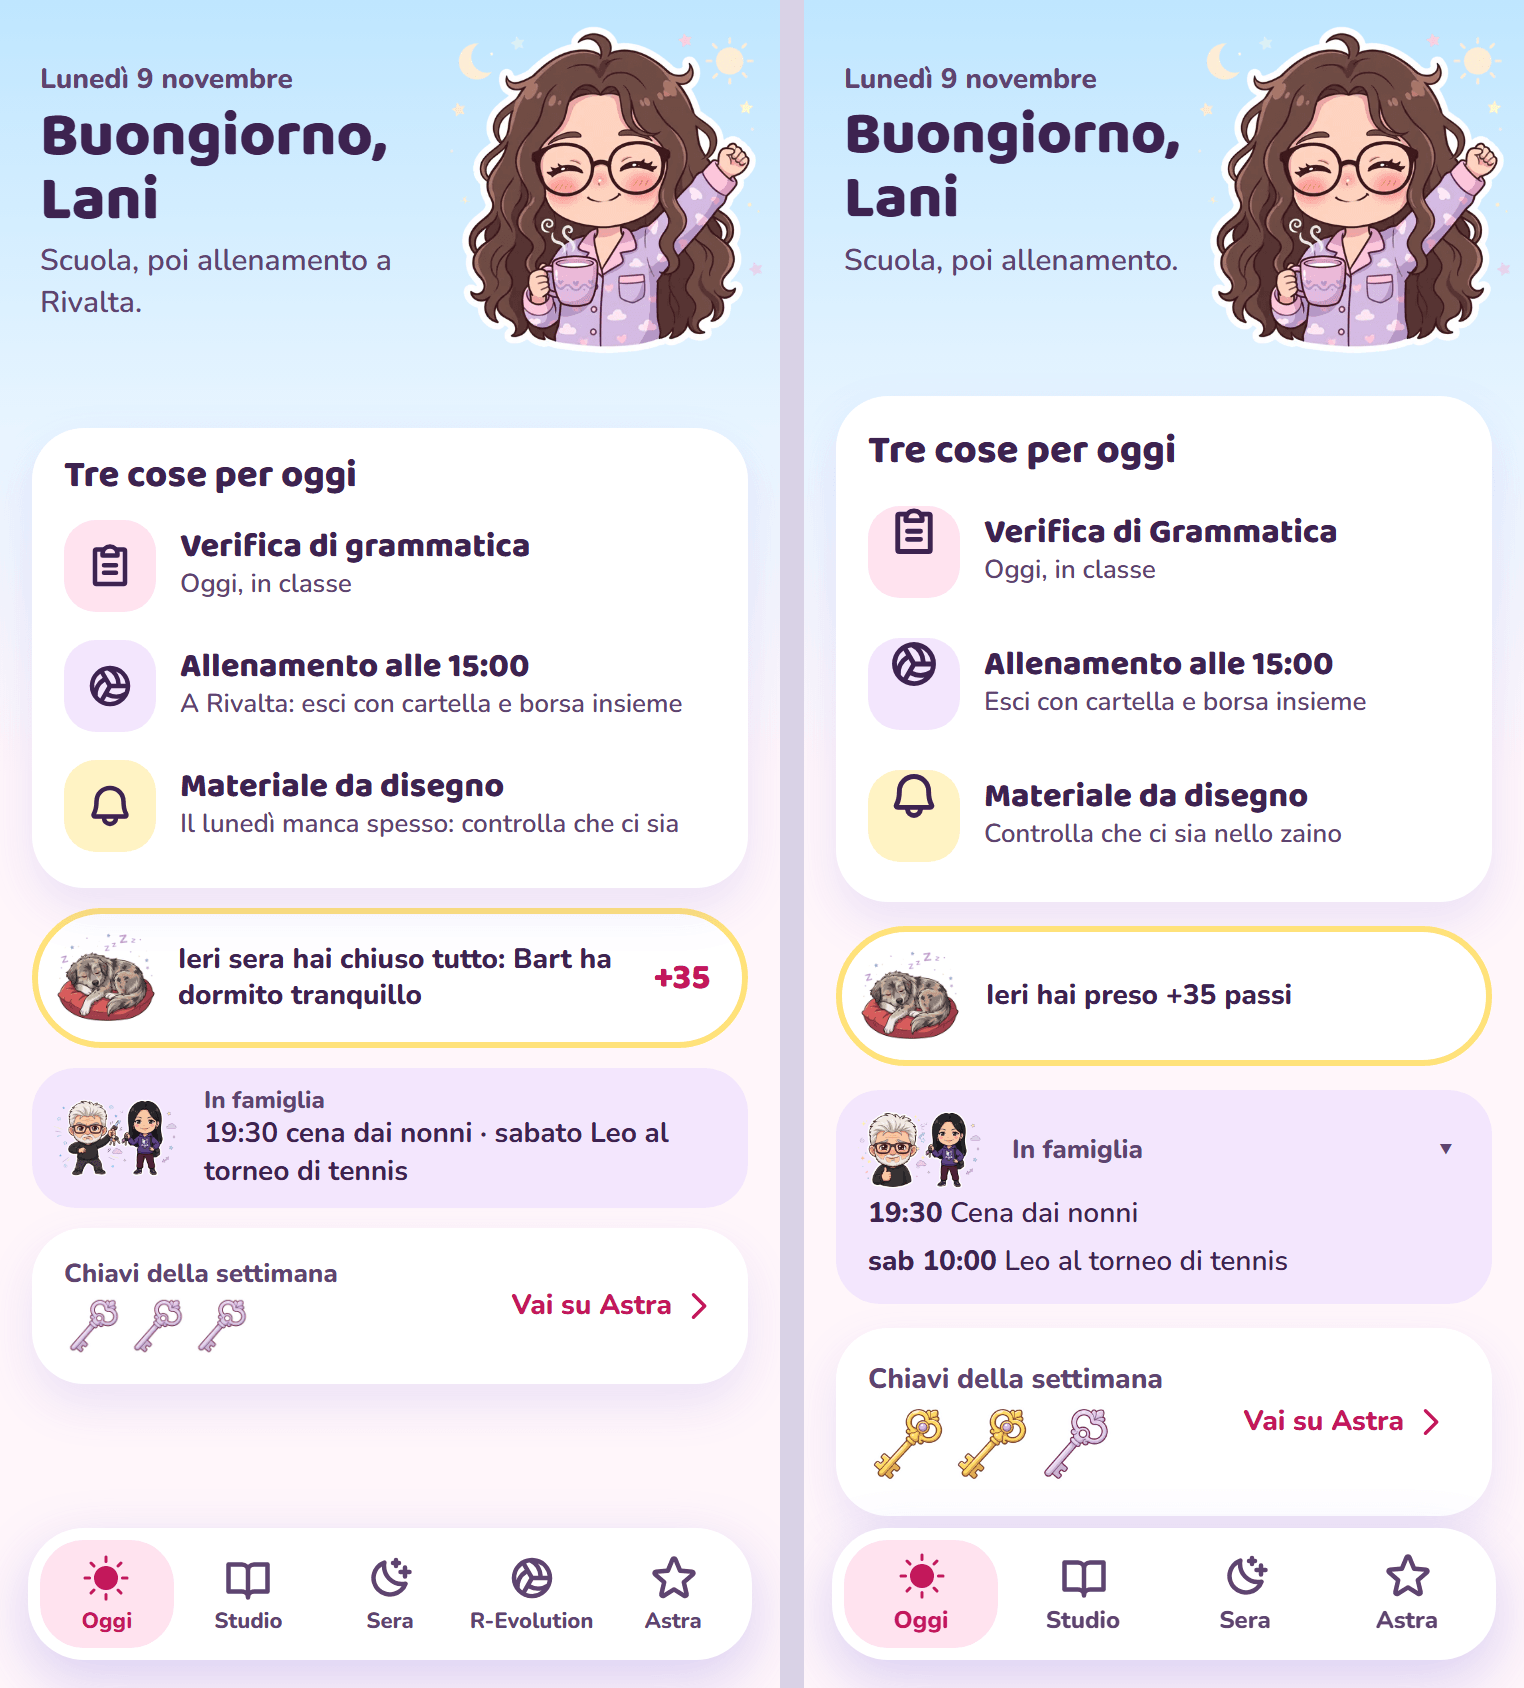
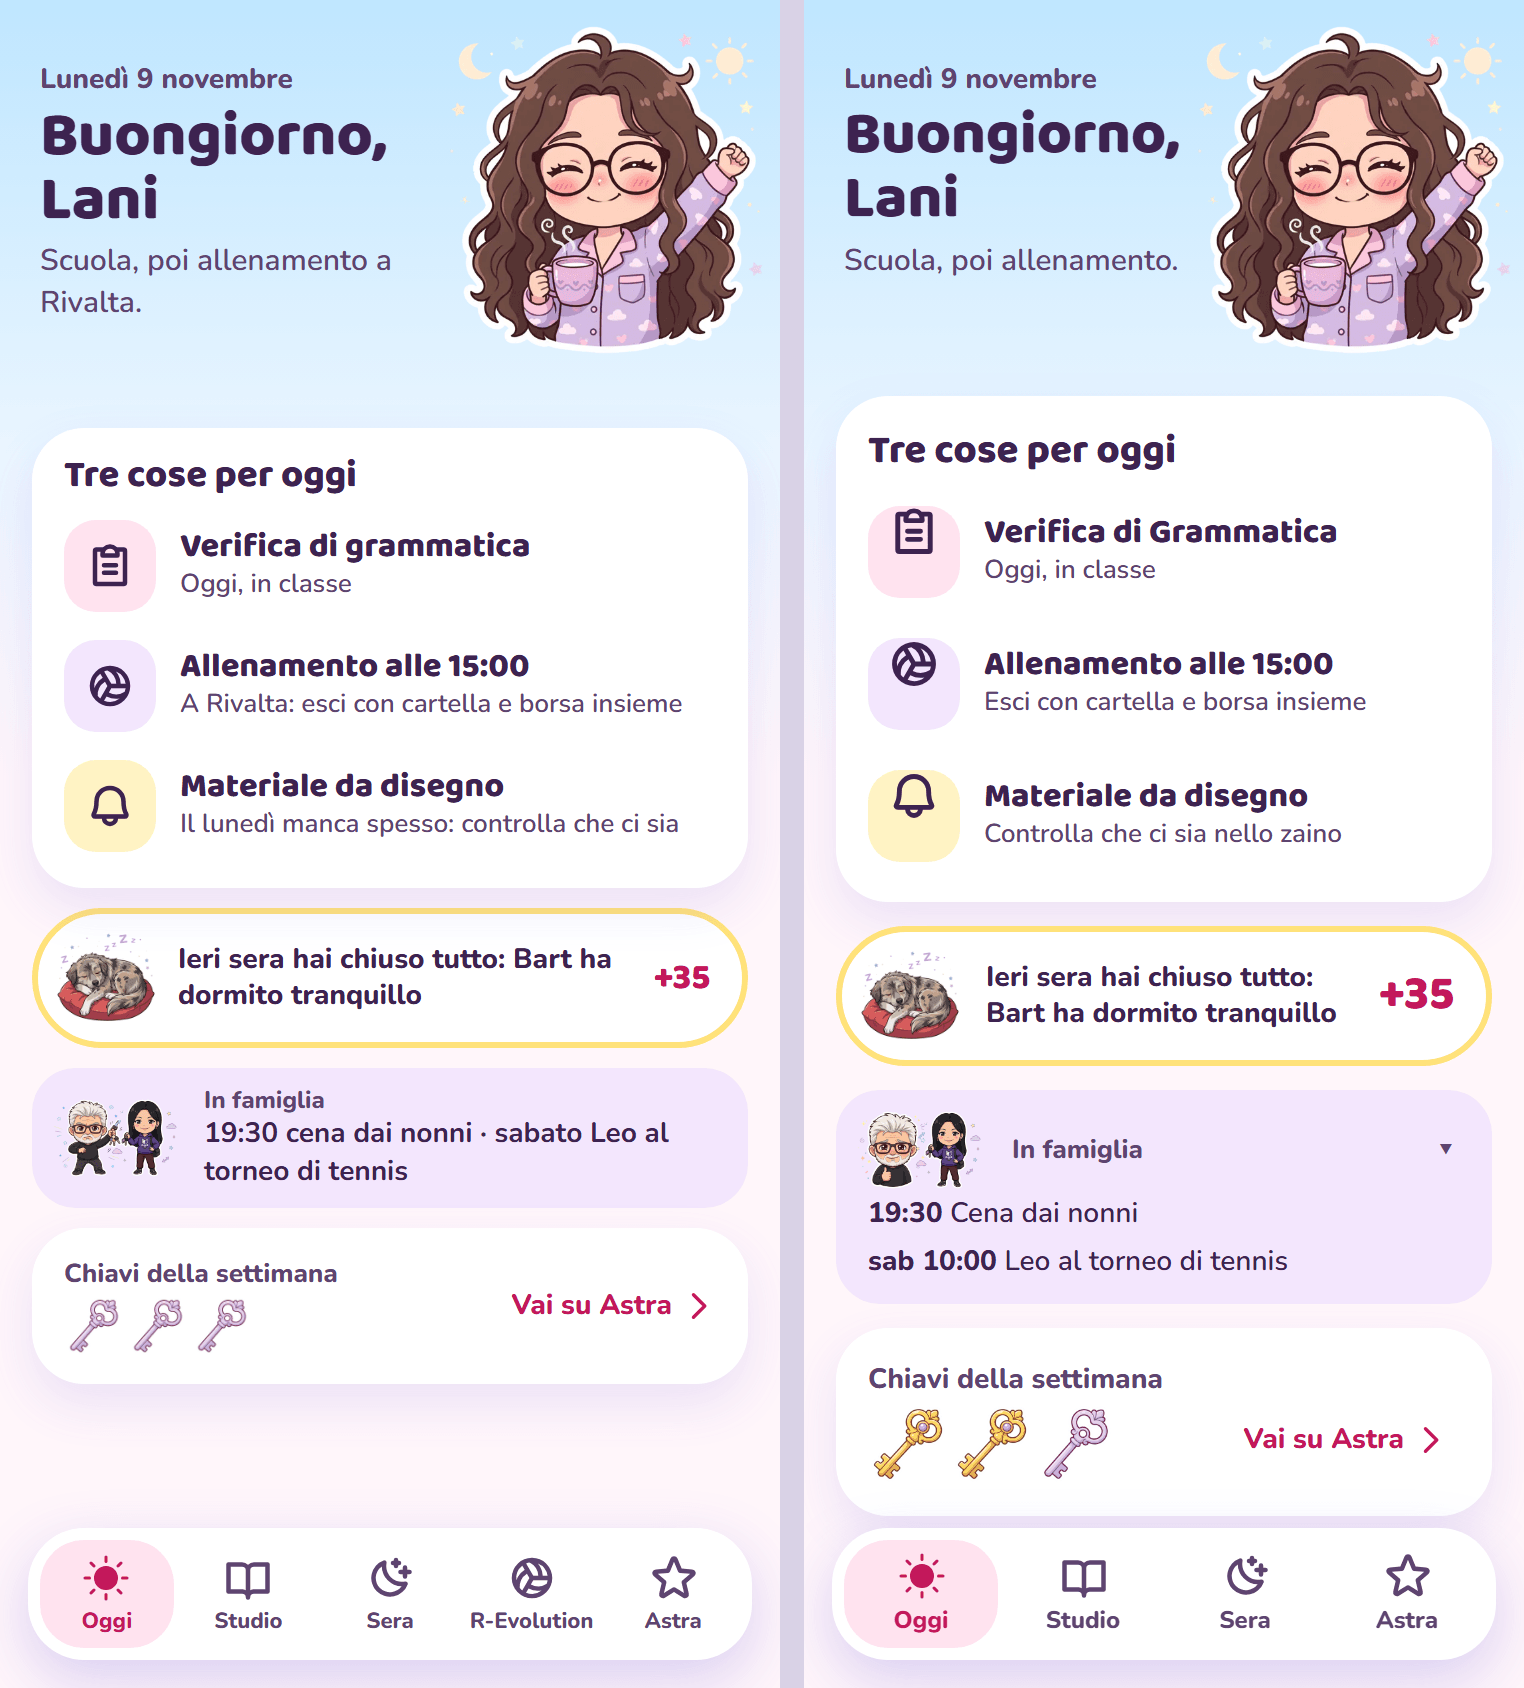
Revisione UI 6 (Oggi): pillola di ieri come la bozza
- 'Ieri sera hai chiuso tutto: Bart ha dormito tranquillo' se la serata
  di ieri è chiusa (altrimenti 'Passi di ieri'), con il numero grande a
  destra
- righe di 'In famiglia' a 16 px dal bordo; 'Vai su Astra' allineato
  alla riga delle chiavi

Changed region(s): [[0.6476, 0.5545, 0.8635, 0.6161], [0.8018, 0.8318, 0.956, 0.8626], [0.8944, 0.5545, 0.956, 0.6161]]

diff --git a/src/Oggi.tsx b/src/Oggi.tsx
@@ -51,6 +51,7 @@ function Mattina({ impegni, apri }: { impegni: Impegno[]; apri: Apri }) {
   const oggi = R.giornoRoma(new Date());
   const [cose, setCose] = useState<Cosa[]>();
   const [ieri, setIeri] = useState(0);
+  const [ieriChiusa, setIeriChiusa] = useState(false);
   const [famiglia, setFamiglia] = useState<Impegno[]>([]);
   const [chiavi, setChiavi] = useState<number | null>(null);
 
@@ -62,7 +63,8 @@ function Mattina({ impegni, apri }: { impegni: Impegno[]; apri: Apri }) {
       supabase.from('movimenti_passi').select('passi, moltiplicatore').eq('giorno', R.iso(piuGiorni(oggi, -1))),
       impegniTra(new Date(), piuGiorni(oggi, 8)),
       supabase.from('settimane').select('chiavi').not('chiavi', 'is', null).order('inizio', { ascending: false }).limit(1),
-    ]).then(([v, m, f, mov, prossimi, w]) => {
+      supabase.from('serate').select('cartella_il').eq('data', R.iso(piuGiorni(oggi, -1))).not('cartella_il', 'is', null).limit(1),
+    ]).then(([v, m, f, mov, prossimi, w, sera]) => {
       const lista: Cosa[] = [];
       for (const x of (v.data ?? []) as unknown as { tipo: string; materie: { nome: string } | null }[])
         lista.push({ titolo: `${maiuscola(x.tipo)} di ${x.materie?.nome ?? 'oggi'}`, sotto: 'Oggi, in classe', icona: 'verifica' });
@@ -81,6 +83,7 @@ function Mattina({ impegni, apri }: { impegni: Impegno[]; apri: Apri }) {
       else if (f.data?.[0]) lista.push({ titolo: f.data[0].titolo, sotto: 'Da far firmare: portalo a mamma o papà', icona: 'promemoria' });
       setCose(lista.slice(0, 3));
       setIeri((mov.data ?? []).reduce((a, x) => a + Math.round(x.passi * x.moltiplicatore), 0));
+      setIeriChiusa((sera.data ?? []).length > 0);
       setFamiglia(prossimi.filter((i) => C.tipoImpegno(i.titolo) === 'famiglia').slice(0, 3));
       setChiavi(w.data?.[0]?.chiavi ?? null);
     });
@@ -128,7 +131,10 @@ function Mattina({ impegni, apri }: { impegni: Impegno[]; apri: Apri }) {
       {ieri > 0 && (
         <p className="pillola-oro">
           <Sticker posa="bart-sonnecchia" misura={52} />
-          <span>Ieri hai preso +{ieri} passi</span>
+          <span>{ieriChiusa ? 'Ieri sera hai chiuso tutto: Bart ha dormito tranquillo' : 'Passi di ieri'}</span>
+          <b className="numero" aria-label={`${ieri} passi`}>
+            +{ieri}
+          </b>
         </p>
       )}
 

diff --git a/e2e/oggi.e2e.ts b/e2e/oggi.e2e.ts
@@ -44,7 +44,8 @@ test('mattina di lunedì: tre cose, passi di ieri, in famiglia', async ({ page }
   await expect(cose.nth(1)).toContainText('Allenamento alle 15:00');
   await expect(cose.nth(1)).toContainText('Esci con cartella e borsa insieme');
   await expect(cose.nth(2)).toContainText('Cartellina di tecnologia');
-  await expect(page.getByText('Ieri hai preso +15 passi')).toBeVisible();
+  await expect(page.locator('.pillola-oro')).toContainText('Passi di ieri');
+  await expect(page.locator('.pillola-oro .numero')).toHaveText('+15');
   await expect(page.locator('.famiglia')).toContainText('19:30 Cena dai nonni');
   await expect(page.locator('.famiglia')).toContainText('mar 17:30 Tennis Leonardo');
   await expect(page.locator('.famiglia')).not.toContainText('Allenamento');

diff --git a/src/stile.css b/src/stile.css
@@ -500,3 +500,7 @@ dialog.velo:focus { outline: none; }
 .genitori .gesto { font-size: 13px; }
 .genitori .sgridata { font-size: 12px; }
 .genitori .carta .nota.piccola { margin: 8px 0 0; }
+
+/* Oggi: pillola di ieri col numero grande (bozza Oggi) */
+.pillola-oro .numero { margin-left: auto; padding-left: 8px; font: 800 24px/1 'Baloo 2', Nunito, sans-serif; color: var(--accento); white-space: nowrap; }
+.riga-chiavi .collegamento { align-self: flex-end; }

diff --git a/e2e/confronto.e2e.ts b/e2e/confronto.e2e.ts
@@ -62,7 +62,7 @@ function dati(): Tabelle {
       { giorno: '2026-11-08', passi: 35, moltiplicatore: 1 },
       { giorno: '2026-11-09', passi: 12, moltiplicatore: 1 },
     ],
-    serate: [],
+    serate: [{ data: '2026-11-08', cartella_il: '2026-11-08T19:40:00Z' }],
     saldo_passi: [{ passi: 725 }],
     chiavi_totali: [{ chiavi: 3 }],
     settimane: [{ inizio: '2026-11-02', chiavi: 2 }],
